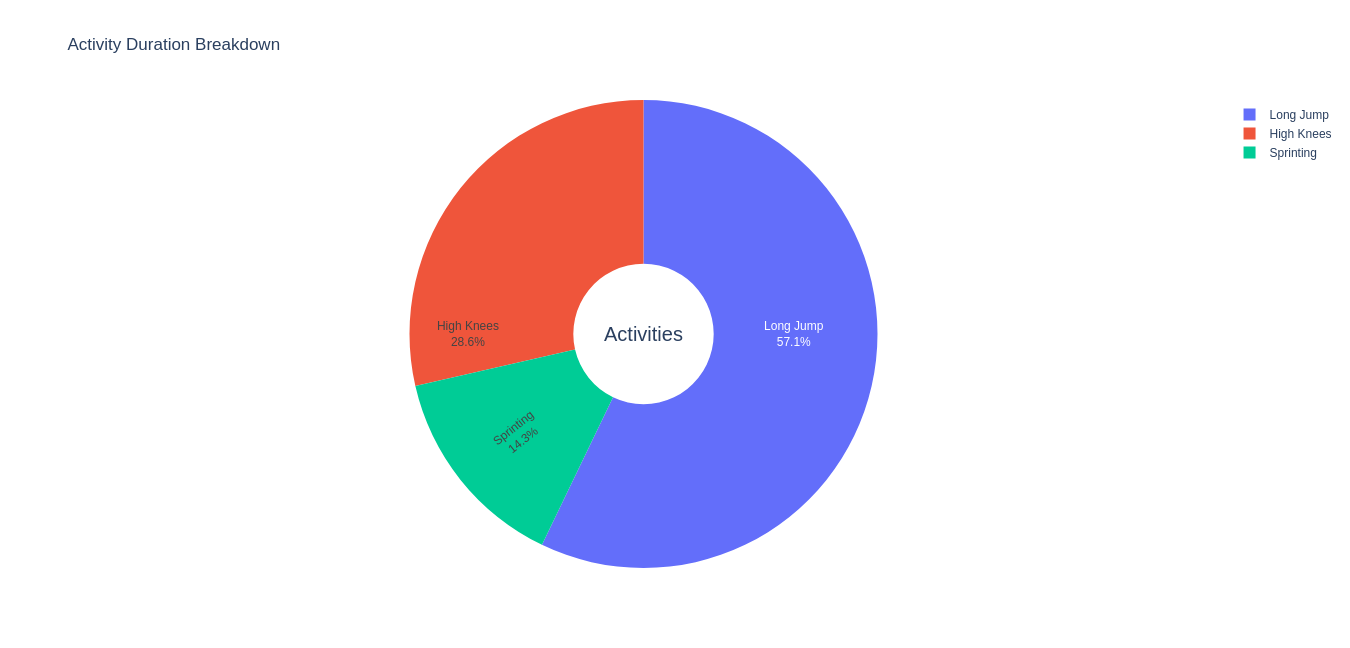
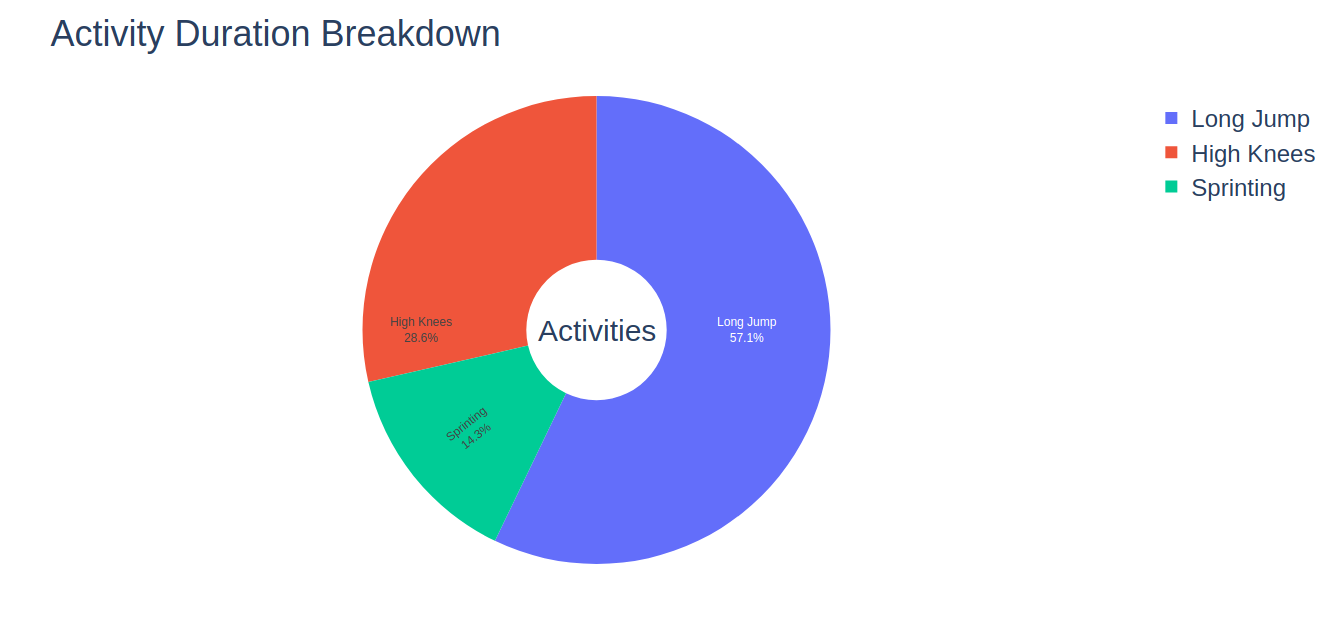
setup metric data check and compute

Changed region(s): [[0.2453, 0.1496, 0.6746, 0.8976], [0.0307, 0.0299, 0.368, 0.0898], [0.8586, 0.1496, 0.9813, 0.3291]]

diff --git a/base/templates/base/index.html b/base/templates/base/index.html
@@ -132,7 +132,7 @@ body {
 		}
 
 		.max-w-40p {
-			max-width: 40%;
+			max-width: 80%;
 		}
 		.image-wrapper {
 			page-break-inside: avoid;
@@ -140,7 +140,7 @@ body {
 		.summary * {
 			margin: 2px;
 			padding: 2px;
-			font-size: 0.95rem;
+			font-size: 0.935rem;
 		}
 		.summary header {
 			height: 60px;
@@ -153,6 +153,12 @@ body {
 			margin: 0;
 			padding: 0;
 			color: turquoise;
+		}
+		.summary h3 {
+			width: 100%;
+			padding: 6px;
+			text-align: center;
+			margin: 0;
 		}
 		ul {
 			list-style: disc inside;
@@ -172,7 +178,7 @@ body {
 					<!-- </h2> -->
 					<div class="flex flex-wrap justify-around w-full">
 
-						<div class="flex flex-col items-center justify-start max-w-150">
+						<div class="flex flex-col items-center justify-start max-w-150 bg-light-blue">
 							<h3 class="bg-blue white p-4">
 								Cardio Health
 							</h3>
@@ -184,7 +190,7 @@ body {
 							</div>
 						</div>
 
-						<div class="flex flex-col items-center justify-start max-w-150">
+						<div class="flex flex-col items-center justify-start max-w-150 bg-light-blue">
 							<h3 class="bg-blue white p-4">
 								Body Mass Index
 							</h3>
@@ -193,11 +199,15 @@ body {
 									<li class="m-4 image-wrapper">
 										{{ name }}'s height is {{ height }} cm and weight is {{ weight }} kg and his is BMI is calculated to be {{ bmi }}
 									</li>
+									<li>
+										The BMI ranges for children vary rapidly due the different growth patterns in children. 
+										Consult your doctor for a more accurate interpretation of the BMI.
+									</li>
 								</ul>
 							</div>
 						</div>
 
-						<div class="flex flex-col items-center justify-start max-w-150">
+						<div class="flex flex-col items-center justify-start max-w-150 bg-light-blue">
 							<h3 class="bg-blue white p-4">
 								Foot Health
 							</h3>
@@ -221,7 +231,7 @@ body {
 							</div>
 						</div>
 
-						<div class="flex flex-col items-center justify-start max-w-150">
+						<div class="flex flex-col items-center justify-start max-w-150 bg-light-blue">
 							<h3 class="bg-blue white p-4">
 								Gait Stability
 							</h3>
@@ -332,40 +342,40 @@ body {
 				<div class="flex flex-wrap justify-center w-full p-8">
 					<div class="flex flex-col m-4 border p-8 justify-center max-w-40p">
 						<p class="bold">
-						{{ name }} | {{ gender }} | {{ age }} years | Height: {{ height }}cm | Body Mass: {{ body_mass }}kg
+						{{ name }} | {{ age }} years | Height: {{ height }}cm | Body Mass: {{ weight }}kg
 						</p>
-						<div class="image-wrapper"><img src="{% static 'img/pass.jpg' %}" alt="hassan's picture" height="360px" width="270px" class="m-4 mx-auto"></div>
+						<div class="image-wrapper"><img src="{% static 'img/duration_2.png' %}" alt="hassan's picture" height="300px" class="m-4 mx-auto"></div>
 					</div>
-					<div class="flex flex-col m-4 p-8 justify-center max-w-40p">
-						<table class="m-4">
-							<thead>
-								<tr>
-									<th class="bg-blue white">Activities for PE</th>
-									<th class="bg-blue white">Measures for PE</th>
-									<th class="bg-blue white">Measuring devices</th>
-								</tr>
-							</thead>
-							<tbody>
-								<tr>
-									<td>Sprinting, Agility drills</td>
-									<td>
-										<ul>
-											<li class="m-2 image-wrapper">Endurance test</li>
-											<li class="m-2 image-wrapper">Balance test</li>
-										</ul>
-									</td>
-									<td>
-										<ul>
-											<li class="m-2 image-wrapper">Stopwatch</li>
-											<li class="m-2 image-wrapper">Smart Feet</li>
-											<li class="m-2 image-wrapper">Smart Excercise Platform</li>
-										</ul>
-									</td>
-								</tr>
-							</tbody>
-						</table>
-						<div class="image-wrapper"><img src="{% static 'img/duration_2.png' %}" alt="duration chart" class="border" width="256px"></div>
-					</div>
+					<!-- <div class="flex flex-col m-4 p-8 justify-center max-w-40p"> -->
+					<!-- 	<table class="m-4"> -->
+					<!-- 		<thead> -->
+					<!-- 			<tr> -->
+					<!-- 				<th class="bg-blue white">Activities for PE</th> -->
+					<!-- 				<th class="bg-blue white">Measures for PE</th> -->
+					<!-- 				<th class="bg-blue white">Measuring devices</th> -->
+					<!-- 			</tr> -->
+					<!-- 		</thead> -->
+					<!-- 		<tbody> -->
+					<!-- 			<tr> -->
+					<!-- 				<td>Sprinting, Agility drills</td> -->
+					<!-- 				<td> -->
+					<!-- 					<ul> -->
+					<!-- 						<li class="m-2 image-wrapper">Endurance test</li> -->
+					<!-- 						<li class="m-2 image-wrapper">Balance test</li> -->
+					<!-- 					</ul> -->
+					<!-- 				</td> -->
+					<!-- 				<td> -->
+					<!-- 					<ul> -->
+					<!-- 						<li class="m-2 image-wrapper">Stopwatch</li> -->
+					<!-- 						<li class="m-2 image-wrapper">Smart Feet</li> -->
+					<!-- 						<li class="m-2 image-wrapper">Smart Excercise Platform</li> -->
+					<!-- 					</ul> -->
+					<!-- 				</td> -->
+					<!-- 			</tr> -->
+					<!-- 		</tbody> -->
+					<!-- 	</table> -->
+					<!-- 	<div class="image-wrapper"><img src="{% static 'img/duration_2.png' %}" alt="duration chart" class="border" width="256px"></div> -->
+					<!-- </div> -->
 				</div>
 				<hr>
 				<h2>Student's Activity Levels - Heart Rate</h2>
@@ -607,7 +617,7 @@ body {
 							<thead>
 								<tr>
 									<th class="bg-blue white">Stride Length Assymetry (&lt; 10%)</th>
-									<th class="bg-blue white">Stride Velocity Assymetry (&lt; 10%)</th>
+									<th class="bg-blue white">Stride Velocity Variability (&lt; 10%)</th>
 									<th class="bg-blue white">Swing Time Assymetry (&lt; 10%)</th>
 									<th class="bg-blue white">Stance Time Assymetry (&lt; 10%)</th>
 								</tr>
@@ -615,8 +625,8 @@ body {
 							<tbody>
 								<tr>
 									<td>{{ stride_length_assymetry }}</td>
-									<td>{{ stride_velocity_assymetry }}</td>
-									<td{{ swing_time_assymetry }}</td>
+									<td>{{ stride_velocity_variability }}</td>
+									<td>{{ swing_time_assymetry }}</td>
 									<td>{{ stance_time_assymetry }}</td>
 								</tr>
 							</tbody>

diff --git a/utils/cadence_gauge.py b/utils/cadence_gauge.py
@@ -2,7 +2,7 @@ import plotly.graph_objects as go
 import base64
 
 
-def cad_plot(value=114, ref=140):
+def cad_plot(value=114, ref=150):
 
     fig = go.Figure(go.Indicator(
         mode="gauge+number+delta",
@@ -12,15 +12,15 @@ def cad_plot(value=114, ref=140):
         delta={'reference': ref, 'increasing': {
             'color': 'green'}, 'decreasing': {'color': 'red'}},
         gauge={
-            'axis': {'range': [60, 150], 'tickwidth': 1, 'tickcolor': "darkblue", 'tickfont': {'size': 12}},
+            'axis': {'range': [120, 210], 'tickwidth': 1, 'tickcolor': "darkblue", 'tickfont': {'size': 12}},
             'bar': {'color': "darkblue"},
             'bgcolor': "white",
             'borderwidth': 2,
             'bordercolor': "gray",
             'steps': [
-                {'range': [60, 90], 'color': 'yellow'},
-                {'range': [90, 125], 'color': 'orange'},
-                {'range': [125, 150], 'color': 'red'}
+                {'range': [120, 150], 'color': 'yellow'},
+                {'range': [150, 180], 'color': 'orange'},
+                {'range': [180, 210], 'color': 'red'}
             ],
         }
     ))

diff --git a/base/views.py b/base/views.py
@@ -119,15 +119,22 @@ def view_report(request):
     try:
         url = "http://146.190.10.144:8000/"
         # url = "http://10.21.170.133:8000/"
-        start = time.time()
-        compute = requests.get(
-            f'{url}api/computemetrics/',
+        check = requests.get(
+            f'{url}api/checkreport/',
             headers={'Content-Type': 'application/json'},
-            data=json.dumps(com_data)
+            data=json.dumps(data)
         )
-        end = time.time()
-        print("time taken to compute", end - start)
-        print(compute)
+        check_status = check.text
+        if check_status != "1":
+            start = time.time()
+            compute = requests.get(
+                f'{url}api/computemetrics/',
+                headers={'Content-Type': 'application/json'},
+                data=json.dumps(com_data)
+            )
+            end = time.time()
+            print("time taken to compute", end - start)
+            print(compute)
 
         req = requests.get(
             f'{url}api/reportdata/',

diff --git a/utils/duration.py b/utils/duration.py
@@ -17,9 +17,21 @@ def create_activity_pie_chart():
 
     # Customize layout
     fig.update_layout(
-        title="Activity Duration Breakdown",
-        annotations=[dict(text='Activities', x=0.5, y=0.5,
-                          font_size=20, showarrow=False)]
+        title={
+            'text': "Activity Duration Breakdown",
+            'font': {'size': 36}  # Set title font size here
+        },
+        annotations=[dict(
+            text='Activities',
+            x=0.5, y=0.5,
+            font_size=30,  # Set annotation font size here
+            showarrow=False
+        )],
+        legend=dict(
+            font=dict(
+                size=24  # Set legend font size here
+            )
+        )
     )
 
     # Show the chart
